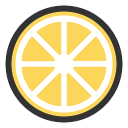
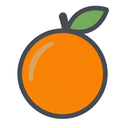
feat(branding): 更换扩展名称、作者与图标
扩展更名为橙子起始页 / Orange New Tab，替换全部尺寸图标与矢量图，manifest 作者改为 L1uZQ 并补充主页；多语言文案与赞助说明同步更新。

diff --git a/wxt.config.ts b/wxt.config.ts
@@ -16,8 +16,9 @@ import { removeH1Plugin } from './scripts/mdit-remove-h1.ts'
 
 const baseManifest = {
   name: '__MSG_extension_name__',
-  author: 'Red_lnn<lemon@redlnn.top>',
+  author: 'L1uZQ',
   description: '__MSG_extension_description__',
+  homepage_url: 'https://github.com/L1uZQ/orange-new-tab',
   default_locale: 'en',
   icons: {
     16: '/icon-16.png',
